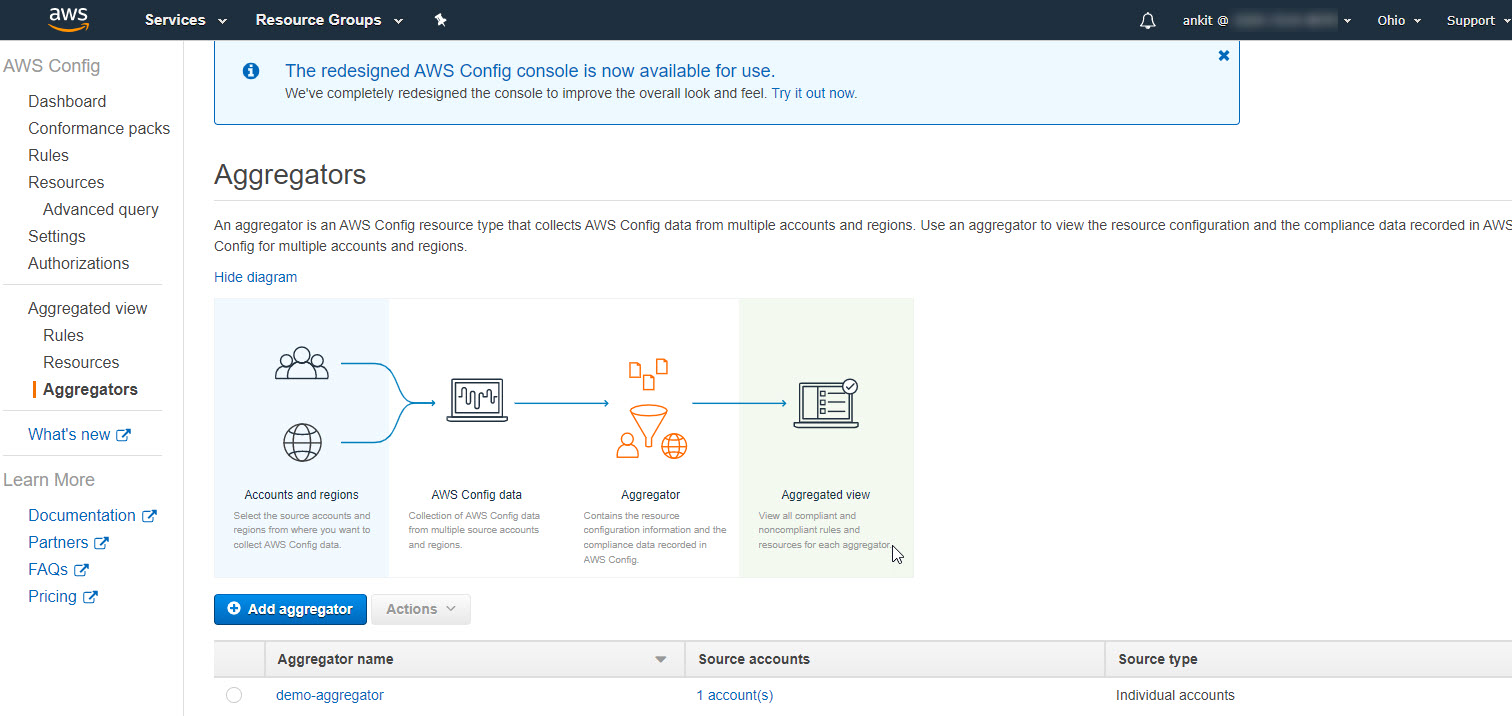
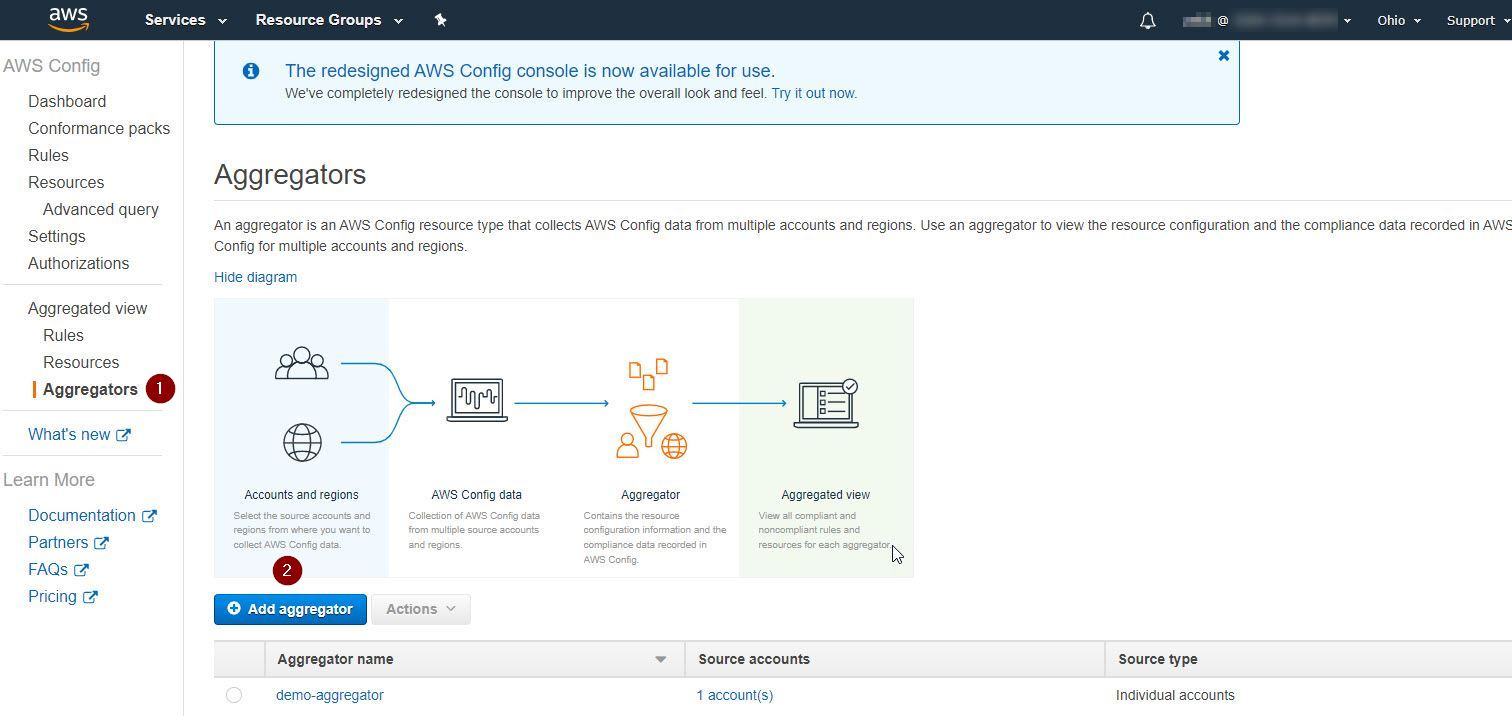
Task 19556 AWS config manual steps added

diff --git a/docs/onboardingGuide/awsEnableConfigBasedDataCollection.md b/docs/onboardingGuide/awsEnableConfigBasedDataCollection.md
@@ -10,13 +10,15 @@ AWS Data collection and processing mechanisms to use AWS config to support massi
 
 ##  2.1 Provision resources for config based data collection (Manual)
 
+### 2.1.1 Config set-up
+
+Set-up config in primary region and all other required regions using below steps.
+
 Login to AWS portal with AWS Administrator role.
 
 1. Under **Service**, select **Config**
 
-### **First time configuration**
-
-Please repeat below steps for all regions.
+#### **First time configuration**
 
 2. Click, **Get Started** 
 
@@ -34,21 +36,49 @@ Please repeat below steps for all regions.
 
     ![AWS Config](../../images/awsConfig/config_setup.JPG#thumbnail)
 
-6. **Step 2 : Rules** can be skipped 
+7. **Step 2 : Rules** can be skipped 
 
-7. Review details and click **Confirm** 
+8. Review details and click **Confirm** 
 
     ![AWS Config](../../images/awsConfig/config_create_reviewscreen.JPG#thumbnail)
 
-### **Config is already setup**
+9. Please repeat above steps for rest all regions keeping **Include global resources (e.g., AWS IAM resources)** unchecked in step 3.
+
+#### **Config is already setup**
 
 If config is already setup, verify and configure below on the config setting page, repeat below steps for all regions.
 
  1. All resources checkbox is checked in all the regions 
  
- 2. Include global resources should be checked in any primary region where the aggregator is planned to be created.
+ 2. Include global resources should be checked in any one region (primary region) where the aggregator is planned to be created.
 
     ![AWS Config](../../images/awsConfig/config_setup.JPG#thumbnail)
+
+
+###  2.1.2 Create config Aggregator
+
+Select a primary region to set up the Aggregator. 
+
+1. Navigate to the config dashboard in that region
+
+2. In the left navigation pane, click on **Aggregators** 
+
+3. Click **Add Aggregator**
+
+    ![AWS Config](../../images/awsConfig/aggregator.JPG#thumbnail)
+
+4. Select the check box to enable aggregation
+
+6. Enter a suitable aggregator name
+
+7. Add self-account id in the Add individual accounts setting 
+
+8. Select all as well as include future regions
+
+9. Click **Save**
+
+    ![AWS Config](../../images/awsConfig/aggregator_setup.JPG#thumbnail)
+
 
 ##  2.1 Provision resources for config based data collection (Automated)
 
